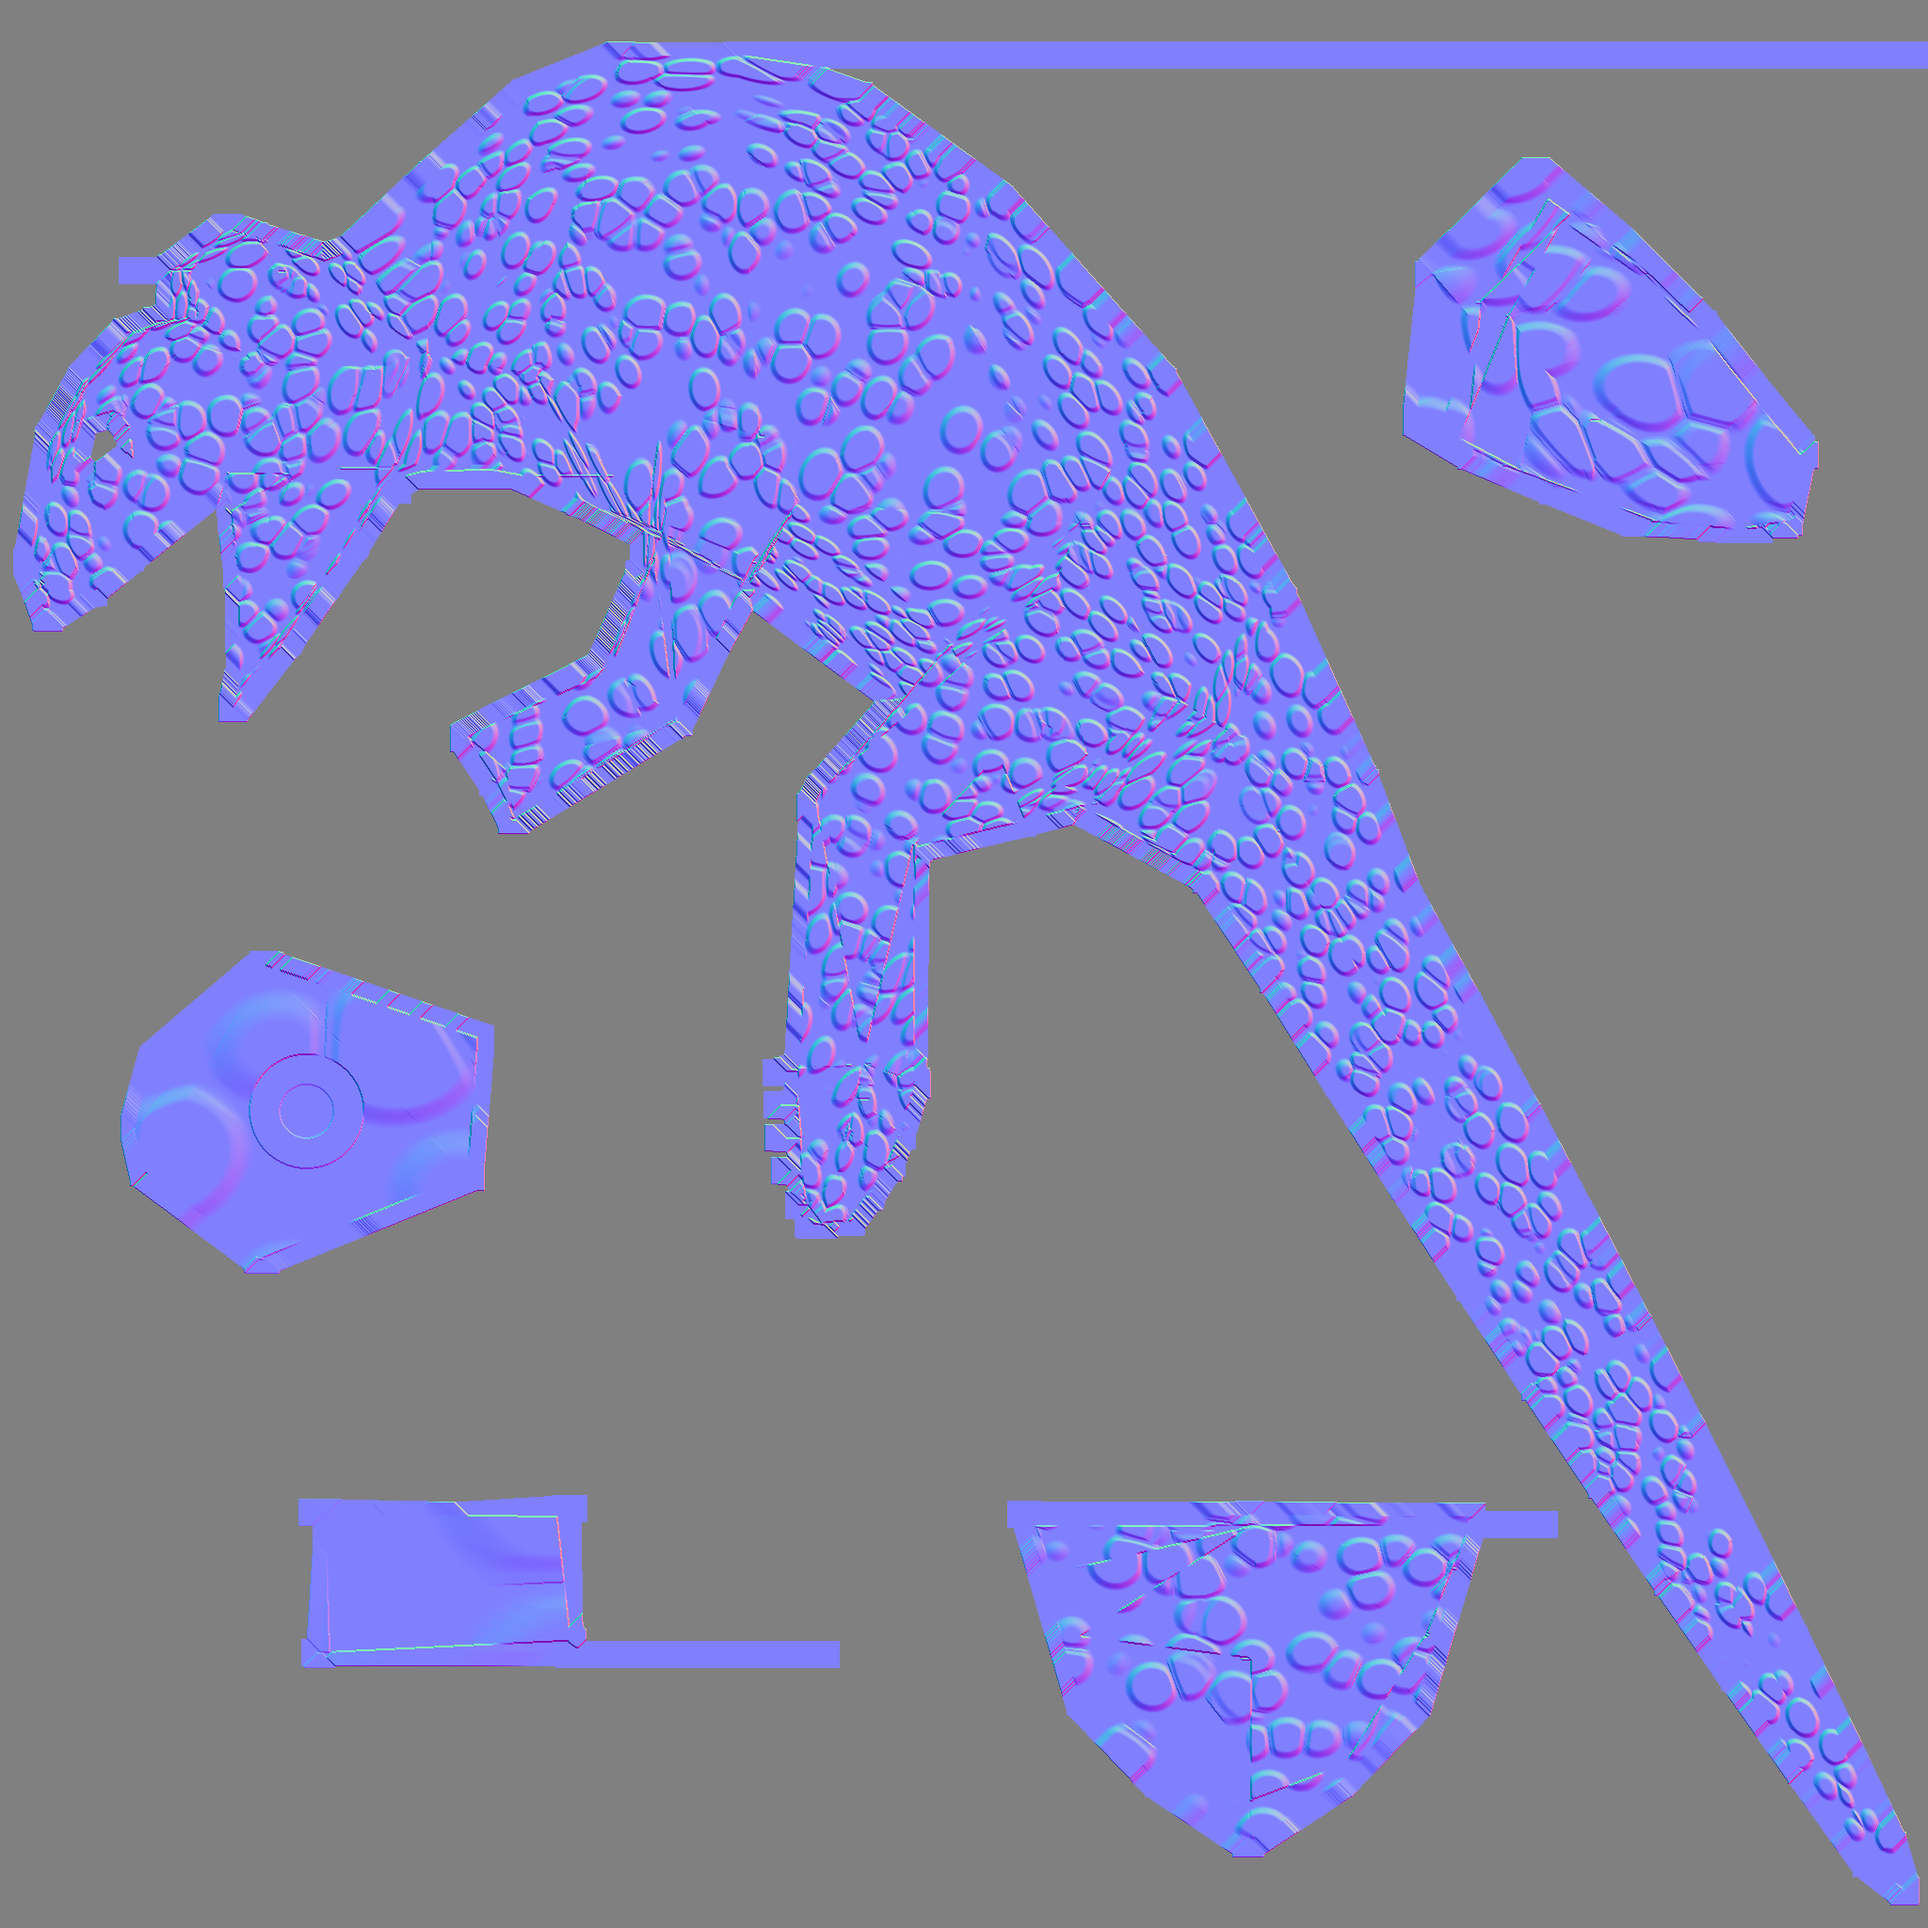
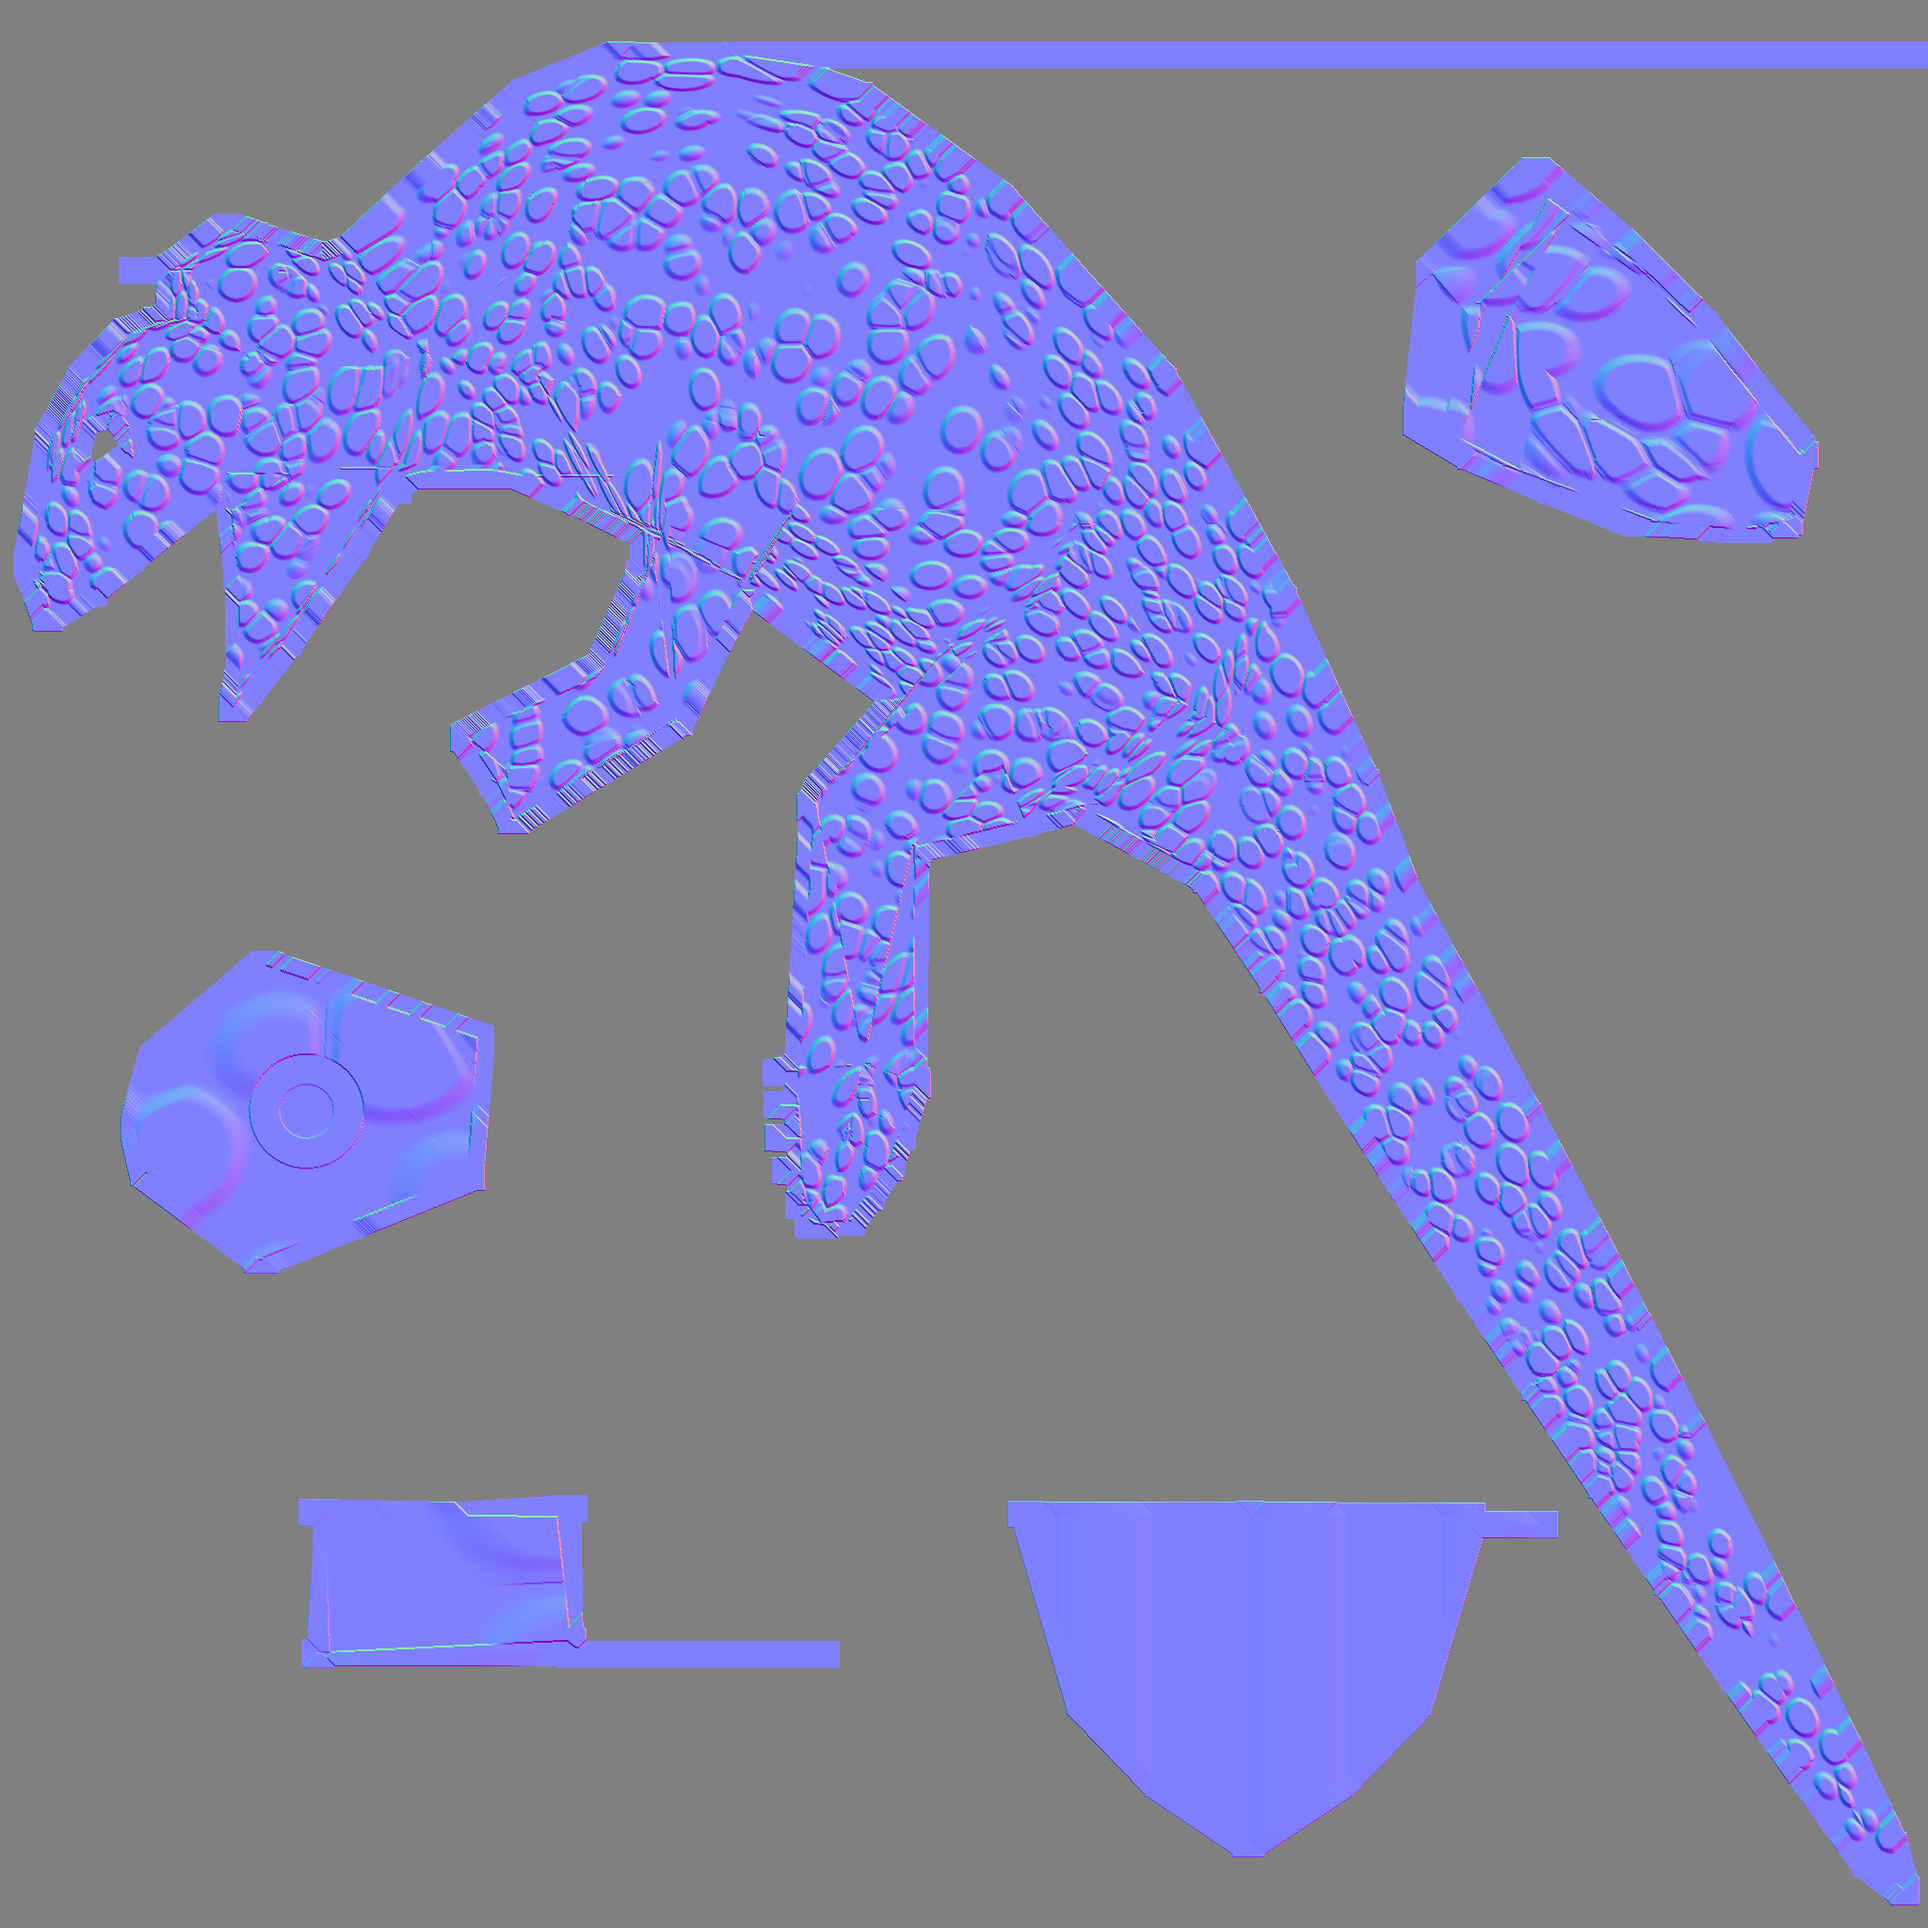
Soften the mouth into tissue instead of red scales.
The cavity keeps a few low ridges and a darker throat, and model files load from the app base path so a hosted build can find them.

Changed region(s): [[0.5312, 0.7812, 0.7812, 0.9375], [0.625, 0.9375, 0.6562, 0.9688]]

diff --git a/src/main.js b/src/main.js
@@ -143,7 +143,7 @@ function setSources(info, textureState = "loading") {
   fileLine.innerHTML = `Loaded <code>${info.sourceFile}</code> · three.js r${THREE.REVISION}`;
   const textureNote =
     textureState === "loaded"
-      ? `The skin is a 2048² green chameleon map (${info.textureFile}) with a dark red mouth, quieter color on the feet, throat, and tail tip, and matching normal and roughness maps, in place of the original 256² ${info.sourceTexture}.`
+      ? `The skin is a 2048² green chameleon map (${info.textureFile}) with a soft mouth interior, quieter color on the feet, throat, and tail tip, and matching normal and roughness maps, in place of the original 256² ${info.sourceTexture}.`
       : textureState === "missing"
         ? `The chameleon texture ${info.textureFile} could not be loaded, so the body uses a flat green.`
         : `The chameleon skin texture ${info.textureFile} is loading.`;
@@ -174,10 +174,12 @@ function prepareTexture(texture, colorSpace) {
   return texture;
 }
 
+const asset = (path) => `${import.meta.env.BASE_URL}${path.replace(/^\//, "")}`;
+
 function loadSkinTexture(info) {
   const loader = new THREE.TextureLoader();
   loader.load(
-    `/models/${info.textureFile}`,
+    asset(`models/${info.textureFile}`),
     (texture) => {
       skinMap = prepareTexture(texture, THREE.SRGBColorSpace);
       paintSkin();
@@ -187,13 +189,13 @@ function loadSkinTexture(info) {
     () => setSources(info, "missing"),
   );
   if (info.normalFile) {
-    loader.load(`/models/${info.normalFile}`, (texture) => {
+    loader.load(asset(`models/${info.normalFile}`), (texture) => {
       skinNormal = prepareTexture(texture, THREE.NoColorSpace);
       paintSkin();
     });
   }
   if (info.roughnessFile) {
-    loader.load(`/models/${info.roughnessFile}`, (texture) => {
+    loader.load(asset(`models/${info.roughnessFile}`), (texture) => {
       skinRoughness = prepareTexture(texture, THREE.NoColorSpace);
       paintSkin();
     });
@@ -233,7 +235,7 @@ function updateSkeletonLines() {
 
 async function main() {
   resize();
-  const response = await fetch("/models/test_lizard_01.3ds");
+  const response = await fetch(asset("models/test_lizard_01.3ds"));
   if (!response.ok) throw new Error(`Could not fetch the 3DS file (${response.status})`);
   const buffer = await response.arrayBuffer();
   const loaded = load3DS(buffer);

diff --git a/scripts/make-chameleon-texture.py b/scripts/make-chameleon-texture.py
@@ -310,19 +310,32 @@ def shade(position, normal, region):
     tip = (regions == BODY) & (along < 0.16)
     color[tip] = mix(color[tip], np.array([0.34, 0.28, 0.14], np.float32), 0.22)
 
-    # Jaw chart is the mouth cavity. Both the roof and the inner lip share it,
-    # so the whole island is a dark red that still follows the scale height.
+    # Jaw chart is the mouth cavity (roof and inner lip share it). Soft tissue,
+    # not the body scales: a few low palate ridges and a darker center.
     jaw = regions == JAW
     mouth = np.zeros(points.shape[0], np.float32)
     if np.any(jaw):
         ju = xs[jaw].astype(np.float32) / (SIZE - 1)
         jv = 1.0 - ys[jaw].astype(np.float32) / (SIZE - 1)
-        ju = (ju - ju.mean()) / max(float(ju.std()), 1e-4)
-        jv = (jv - jv.mean()) / max(float(jv.std()), 1e-4)
-        depth = np.exp(-0.35 * (ju * ju + jv * jv))
-        tone = (0.58 + 0.42 * height[jaw]) * (0.80 + 0.20 * crack[jaw])
-        tone = tone * (0.62 + 0.38 * (1.0 - depth))
-        color[jaw] = np.array([0.46, 0.07, 0.055], np.float32) * tone[:, None]
+        ju = (ju - float(ju.mean())) / max(float(ju.std()), 1e-4)
+        jv = (jv - float(jv.mean())) / max(float(jv.std()), 1e-4)
+        wave = np.sin(ju * 3.4)
+        crest = np.clip(wave, 0.0, 1.0) ** 0.65
+        groove = np.clip(-wave, 0.0, 1.0) ** 1.15
+        grain = value_noise(points[jaw] * 0.35 + 9.0)
+        cavity = np.exp(-0.42 * (ju * ju * 0.7 + jv * jv))
+        deep = np.array([0.15, 0.032, 0.028], np.float32)
+        tissue = np.array([0.42, 0.12, 0.10], np.float32)
+        lip = np.array([0.50, 0.17, 0.14], np.float32)
+        flesh = mix(tissue, deep, (cavity * 0.7)[:, None])
+        flesh = mix(flesh, lip, ((1.0 - cavity) * 0.32)[:, None])
+        flesh *= (0.76 + 0.30 * crest)[:, None]
+        flesh = mix(flesh, deep, (groove * 0.38)[:, None])
+        raphe = np.exp(-(ju * ju) * 2.4)
+        flesh = mix(flesh, flesh * np.array([1.12, 1.04, 1.0], np.float32), (raphe * 0.22)[:, None])
+        flesh *= (0.94 + 0.08 * grain)[:, None]
+        color[jaw] = flesh
+        height[jaw] = 0.28 + 0.26 * crest - 0.06 * groove
         mouth[jaw] = 1.0
 
     snout = regions == SNOUT
@@ -412,7 +425,7 @@ def roughness_from_height(height, gloss, mouth, mask):
     # Satin scales: raised centers are a little smoother than the cracks.
     rough[mask] = np.clip(0.82 - height[mask] * 0.22, 0.52, 0.9)
     # The mouth is a bit wetter than the hide. The iris stays the glossy part.
-    rough[mouth > 0.5] = np.float32(0.38)
+    rough[mouth > 0.5] = np.float32(0.55)
     rough[gloss > 0.5] = np.float32(0.18)
     return rough
 
